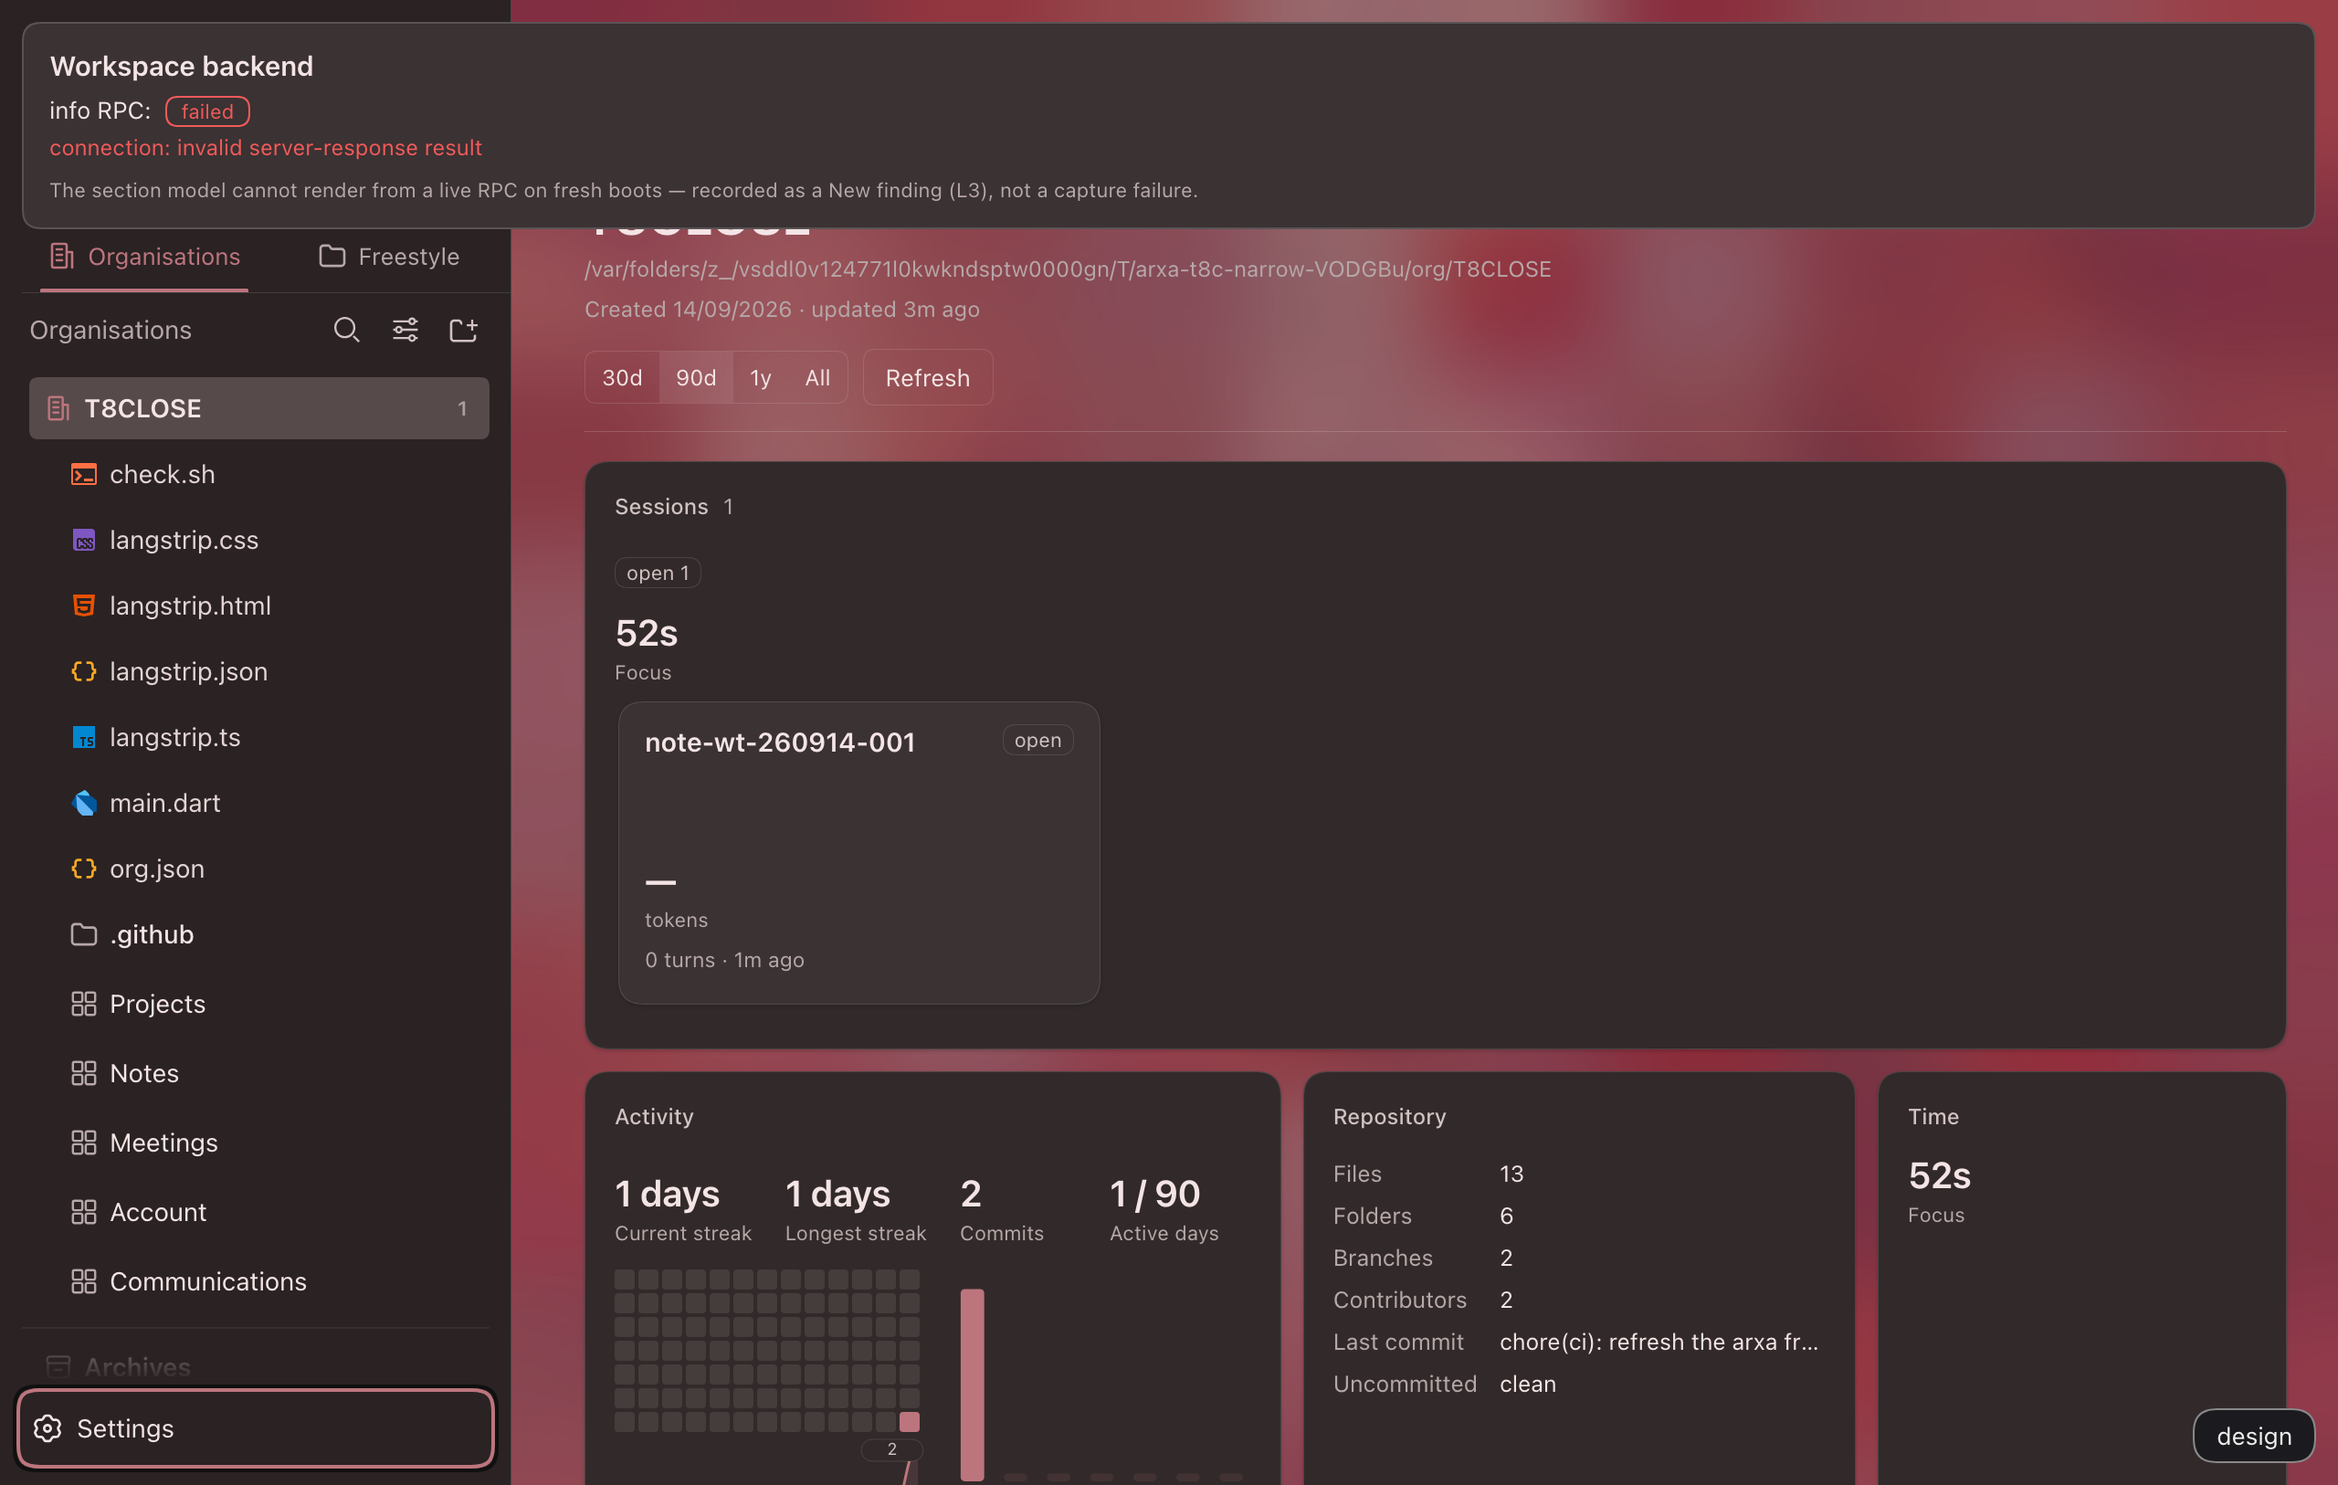
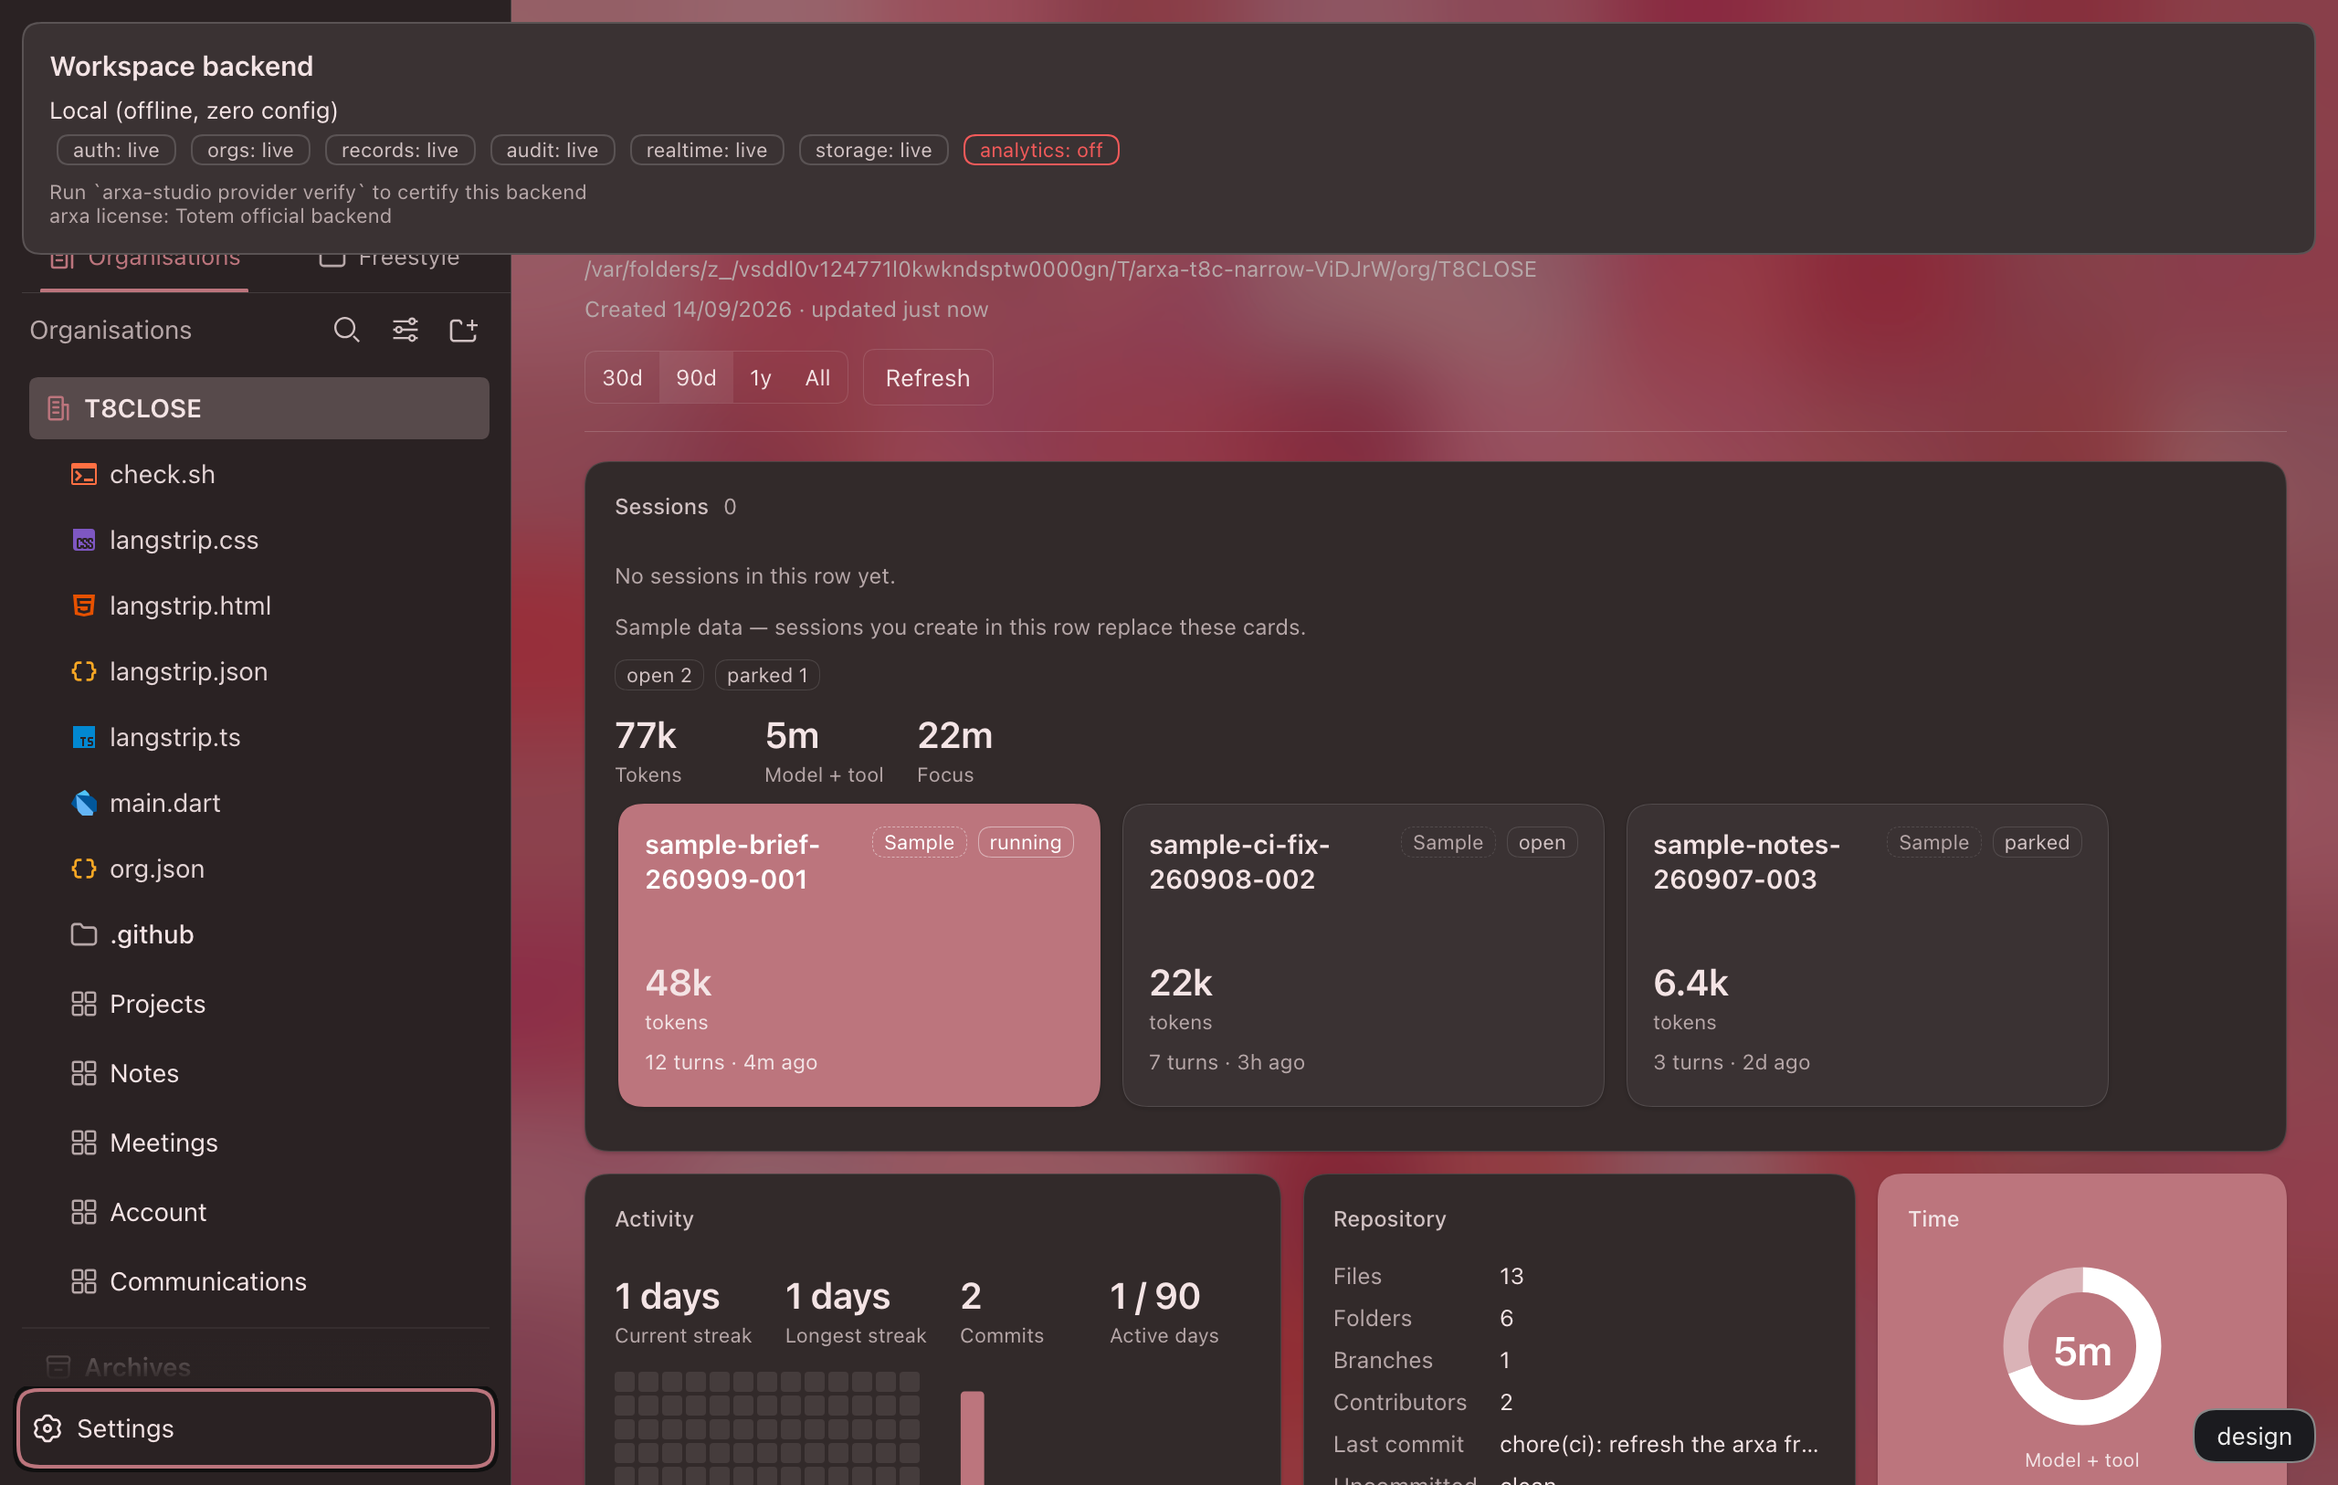
test: correct the closeout evidence matrix (fix round 1)
E3 re-adjudicated FIXED (product fix 7351ddf): the E3 row, §G7-notes
backend leg, and §Escalated now record the branch-born wire fault and its
green re-capture (backend model mounted, live badges, light+dark), and the
limitation + external-owner rows are withdrawn.

§Escalated rewritten per-row — no blanket "pre-existing at BASE": E1 =
BASE-identical gate code (verbatim 403); E2 = T8 RIDE condition honored
(fresh-HEAD probe + external rows + operator installed-studio
counter-evidence); E3 = branch-born, fixed. Do-not-propagate note for
Task 17.

Minors: the stale narrow-capture-log.json pointer replaced (the wrapper
overwrites that json every run; pair logs + PNGs are the durable record);
E-row/G7 artifact paths aligned to where files actually live
(studio-closeout/ for pairs+PNGs, studio-closeout-2026-09-12/ for the two
probe-launch logs; no file moves); package-lock.json restored from 8e3bc01
so the +2 lock catch-up no longer rides a test: commit (residue contract).

Evidence: green backend lane re-capture (1280-backend.log, both model
PNGs, runlog json, studio-boot log). Full npm test 130/130 ALL GREEN at
7351ddf.

diff --git a/docs/plans/closeout-evidence-2026-09-12.md b/docs/plans/closeout-evidence-2026-09-12.md
@@ -26,7 +26,7 @@ Arxa worktree HEAD: `5930302d` (`closeout-2026-09-12`). All Part A legs ran
 | G5 | Claude signed-in smoke (Step 3) | authenticated | `node scripts/claude-code-smoke.mjs --yes` | studio 8e3bc01 | PREPARED | — | operator authorization + signed-in `claude`. Linux resume/Bash-escape rungs are **N/A on macOS** (recorded, not skipped silently) |
 | G5a | bundled skill-pack set stays empty — policy test | scratch | `node plugins/claude-code/selftest.skill-packs.mjs` | studio 8e3bc01 | DONE | `plugins/claude-code/selftest.skill-packs.mjs` (bundled-root-empty row) | — |
 | G6 | Z.ai live smoke (Step 4) | authenticated | `ZAI_API_KEY=<resolved by operator, never printed> node scripts/zai-live-smoke.mjs` | studio 8e3bc01 | PREPARED | — | authorized credential path; requires a real successful response + intended model/wire params |
-| G7 | Viewer gate (Step 5) | scratch (mostly) | `node scripts/evidence-capture-narrow.mjs --width 1280 --surface finish --surface backend --surface langstrip --surface viewer-strip` (the Part A fresh-boot probe; one studio boot per run, sequential single-Chrome pairs) + per-leg rows in §G7-notes | studio 8e3bc01 | DONE (fresh-boot legs, 2026-09-14; per-leg rows in §G7-notes) | `designs/evidence/studio-closeout-2026-09-12/` | LSP-diagnostics live row = limitation per §Escalated E1 (owner + trigger recorded) |
+| G7 | Viewer gate (Step 5) | scratch (mostly) | `node scripts/evidence-capture-narrow.mjs --width 1280 --surface finish --surface backend --surface langstrip --surface viewer-strip` (the Part A fresh-boot probe; one studio boot per run, sequential single-Chrome pairs) + per-leg rows in §G7-notes | studio 8e3bc01 | DONE (fresh-boot legs, 2026-09-14; per-leg rows in §G7-notes; backend leg re-captured green at `7351ddf` in fix round 1) | `designs/evidence/studio-closeout/` (pair logs + PNGs; probe-launch logs in `studio-closeout-2026-09-12/`) | LSP-diagnostics live row = limitation per §Escalated E1 (owner + trigger recorded) |
 | G8 | Mobile physical gates (Step 6) | physical | per-leg commands in `mobile_flutter/deploy/physical-gates.md` (arxa worktree) | arxa 5930302d | PREPARED (per-leg) | `mobile_flutter/deploy/evidence/closeout-2026-09-12/` (dir created Part A) | devices + credentials; every leg incl. `PHASE=phone` real-APNs doorbell |
 | G9 | Release gates (Step 7) | authenticated | `bash desktop/scripts/sign-and-notarize.sh` (script lives in the ARXA worktree; `bash -n` green Part A) + first live `release-linux` tag + clean-machine installer verify | studio 8e3bc01 | EXTERNAL (owner: operator) | — | explicit authorization (never mark complete without it); keychain profile `arxa-notary` absent (AXS-019) |
 | G10 | Omarchy VM + container lanes (T15) | operator-machine | runbook + assertions in arxa `docs/linux-support.md`; container lane `DISTRO=ubuntu scripts/linux/run-container.sh` | studio 8e3bc01 | EXTERNAL (owner: operator) | — | operator VM + daemon; first `desktop/**` PR runner pass (AXS-043) |
@@ -35,9 +35,9 @@ Arxa worktree HEAD: `5930302d` (`closeout-2026-09-12`). All Part A legs ran
 | G12b | T12 residual Step 8 — `arxa deploy --self-test` | scratch | `arxa deploy --self-test` (arxa worktree `.build/arxa`) | arxa 5930302d | DONE (2026-09-14, exit 0, 12/12 — incl. `deploy halts without approval`) | `mobile_flutter/deploy/evidence/closeout-2026-09-12/g12b-deploy-selftest.log` (arxa worktree) | — |
 | G12c | T12 residual Step 8 — release-automation without publishing | scratch (heavy) | disposable-keystore `flutter build appbundle --release` + `flutter build apk --release`; iOS stops at `fastlane ios doctor` | arxa 5930302d | PREPARED (RAM-discipline deferral, §G12-notes) | §G12-notes | — |
 | G13 | tree-endpoint 404 in IGNORED mask (T8 minor) | scratch (decision) | decision row — keep-with-justification (see §G13-notes) | studio 8e3bc01 | DONE (decision) | this file §G13-notes | — |
-| E1 | Escalated: L1/L2 viewer LSP chain dead on fresh boots | scratch (adjudication) | fresh-boot probe (G7 command, `langstrip`/`viewer-strip` pairs) | studio 8e3bc01 | DONE (adjudicated: REPRODUCED → pre-existing defect, keep rows; §Escalated) | `designs/evidence/studio-closeout-2026-09-12/` | product fix = artifact-viewer owner (external) |
-| E2 | Escalated: conversation dock dead on fresh boots | scratch (adjudication) | fresh-boot probe (G7 command, `finish` pair — FAILURE-STATE row if `[data-git-dock]` never mounts) | studio 8e3bc01 | DONE (adjudicated: REPRODUCED → keep limitation + external rows; §Escalated) | `designs/evidence/studio-closeout-2026-09-12/` | operator's installed studio = daily counter-evidence (RIDE condition); product fix = arxa-git-card + dsh conversation-input owners |
-| E3 | Escalated: L3 `window.__arxaWorkspaceProvider.info()` fails on fresh boots | scratch (adjudication) | fresh-boot probe (G7 command, `backend` pair) | studio 8e3bc01 | DONE (adjudicated: REPRODUCED → keep limitation + external rows; §Escalated) | `designs/evidence/studio-closeout-2026-09-12/` | product fix = workspace-provider owner (external) |
+| E1 | Escalated: L1/L2 viewer LSP chain dead on fresh boots | scratch (adjudication) | fresh-boot probe (G7 command, `langstrip`/`viewer-strip` pairs) | studio 8e3bc01 | DONE (adjudicated: REPRODUCED → pre-existing defect at BASE, keep rows; §Escalated) | `designs/evidence/studio-closeout/` (pair logs + PNGs; probe-launch logs in `studio-closeout-2026-09-12/`) | product fix = artifact-viewer owner (external) |
+| E2 | Escalated: conversation dock dead on fresh boots | scratch (adjudication) | fresh-boot probe (G7 command, `finish` pair — FAILURE-STATE row if `[data-git-dock]` never mounts) | studio 8e3bc01 | DONE (adjudicated: REPRODUCED → T8 RIDE condition honored, keep limitation + external rows; §Escalated) | `designs/evidence/studio-closeout/` (pair logs + PNGs; probe-launch logs in `studio-closeout-2026-09-12/`) | operator's installed studio = daily counter-evidence (RIDE condition); product fix = arxa-git-card + dsh conversation-input owners |
+| E3 | Escalated: L3 `window.__arxaWorkspaceProvider.info()` fails on fresh boots | scratch (adjudication → fix round 1) | fresh-boot probe (G7 command, `backend` pair) + wire probe (one-shot driver, RED→GREEN bytes in task-16 report §Fix round 1) | studio 7351ddf (fix round 1) | DONE (FIXED in-branch, 2026-09-14 — dsh result-envelope law; §Escalated) | `designs/evidence/studio-closeout/` (`narrow-capture-logs/1280-backend.log` + `1280/workspace-backend-model-{light,dark}-1280.png`) | limitation + external rows WITHDRAWN — branch-born (T13), fixed in-branch; wire freeze held (`3597a40` byte-identical) |
 
 ## G3-notes — sbx v0.42.1 feed measurement (2026-09-14)
 
@@ -66,12 +66,13 @@ discarded). Quota effect: none metered.
 
 Fresh-boot probe legs (DONE 2026-09-14 at HEAD `8e3bc01`; one studio boot
 per wrapper run against a `mkdtemp` scratch ARXA_HOME; sequential
-single-Chrome pairs; token-redacted logs):
+single-Chrome pairs; token-redacted logs; the backend leg was re-captured
+green in fix round 1 at `7351ddf`):
 
 | leg | runbook face | result | evidence |
 |---|---|---|---|
 | finish | §Escalated E2 | FAILURE STATE recorded honestly — session creates, opens via row, conversation binds, composer activates; `[data-git-dock]` never mounts | `narrow-capture-logs/1280-finish.log`; `1280/finish-failed-{light,dark}-1280.png` |
-| backend | §Escalated E3 | FAILURE STATE card — provider keys (`info,section,namespace`) present; model errors `connection: invalid server-response result` | `narrow-capture-logs/1280-backend.log`; `1280/workspace-backend-model-{light,dark}-1280.png` |
+| backend | §Escalated E3 | FIXED (fix round 1, `7351ddf`) — `backend model: mounted: title=Workspace backend provider=Local (offline, zero config)`, capability badges live (analytics honestly off), light+dark; failure-state card retired | `narrow-capture-logs/1280-backend.log`; `1280/workspace-backend-model-{light,dark}-1280.png` |
 | langstrip | §Escalated E1 | MISSING — no diagnostic squiggles for ts/css/json, no html preview iframe | `narrow-capture-logs/1280-langstrip.log` |
 | viewer-strip | §Escalated E1 | MISSING product state — `dart state: {"strip":false,"editor":true}` light+dark: the editor mounts, the "install its SDK" strip never renders | `narrow-capture-logs/1280-viewer-strip.log`; `1280/viewer-install-strip-{light,dark}-1280.png` |
 
@@ -128,8 +129,11 @@ alongside the E1 fix.
 All three findings reproduced at HEAD `8e3bc01` on fresh scratch boots,
 2026-09-14. Probe logs: `designs/evidence/studio-closeout-2026-09-12/
 probe-launch.log` (finish + backend legs) and `probe-launch-2.log`
-(viewer-strip + langstrip legs); pair logs `…/studio-closeout/narrow-capture-logs/1280-*.log`;
-structured rows `…/narrow-capture-log.json`.
+(viewer-strip + langstrip legs). The durable per-run evidence is the pair
+logs `…/studio-closeout/narrow-capture-logs/1280-*.log` + the PNGs beside
+them — `narrow-capture-log.json` holds only the LATEST driver run (the
+wrapper overwrites it every invocation; current content = the fix-round
+backend re-capture) and must never be cited as merged history.
 
 - **E1 — L1/L2 viewer LSP chain dead on fresh boots**
   (`plugins/artifact-viewer/lib/index.js:183-191`): **REPRODUCED — keep as
@@ -150,14 +154,36 @@ structured rows `…/narrow-capture-log.json`.
   mounts docks daily (counter-evidence); the branch records honest
   FAILURE-STATE rows instead of closing on stale dock evidence.
 - **E3 — L3 `window.__arxaWorkspaceProvider.info()` fails on fresh boots:
-  REPRODUCED — keep limitation + external row** (owner: workspace-provider
-  owner). Provider keys are present (`info,section,namespace`); the live
-  model errors `connection: invalid server-response result`; failure-state
-  card captured light+dark. T8-innocent (4 locale lines).
-- Fix loop: none of the three is branch-caused (each measured pre-existing at
-  BASE during escalation; the T8 diffs are literals→`t()` only) → documented
-  limitation/external rows per brief deliverable 5's else-branch. No product
-  fix attempted in this task.
+  FIXED in fix round 1 (studio `7351ddf`, 2026-09-14) — limitation + external
+  rows withdrawn.** The Part A "pre-existing at BASE" ruling was WRONG and is
+  retracted: workspace-provider is branch-born (created T13 `72a2a83`/T14
+  `75d090f`; absent from BASE `4d1b924`'s plugin tree), so nothing about it
+  could pre-date BASE. Wire diagnosis (one-shot driver on a fresh scratch
+  boot, RED bytes then GREEN bytes, both in task-16 report §Fix round 1): the
+  engine hands the RPC handler's return VERBATIM to the browser as the
+  server-response `result` (dsh-client-connection `rpcFetchHandler` →
+  `fullResponse`), and the browser's `parseConnectionResponse` accepts only
+  `{ok:true,value}` / `{ok:false,error:{code,message,details}}` — the host
+  half returned a bare `{provider,config,capabilities}` record, so wp.info()
+  rejected with `connection: invalid server-response result`; the same boot's
+  `/arxa-provider-status/current` answered lawfully throughout (transport
+  exculpated). Fix: host half answers inside the envelope (error code from
+  the frozen ERROR_CODES set), browser half unwraps `rpc.call`'s envelope;
+  `selftest.settings.mjs` re-pinned to the envelope law (RED first — the old
+  pin was green only because it bypassed the engine wrapper). Wire freeze
+  held: contract/errors/wire byte-identical to `3597a40`. Evidence:
+  `narrow-capture-logs/1280-backend.log` now reads `backend model: mounted:
+  title=Workspace backend provider=Local (offline, zero config)` with live
+  badges light+dark; full `npm test` 130/130 ALL GREEN.
+- Fix loop per row, as measured — no blanket claim: **E1** is the only
+  pre-existing-at-BASE finding (the failing gate is BASE-identical code:
+  `git show 4d1b924:plugins/artifact-viewer/lib/index.js` carries the
+  `lsp`-scope 403 verbatim; keep limitation row). **E2** rests on the
+  standing T8 RIDE ruling honored — fresh-HEAD probe reproduced + external
+  owner rows + the operator's installed studio as daily counter-evidence (no
+  BASE measurement exists or is claimed for E2). **E3** was branch-born and
+  is FIXED (`7351ddf`). Task 17 must carry each row's own basis, never a
+  blanket "pre-existing" sentence.
 
 ## Prep verification (Step 1)
 
